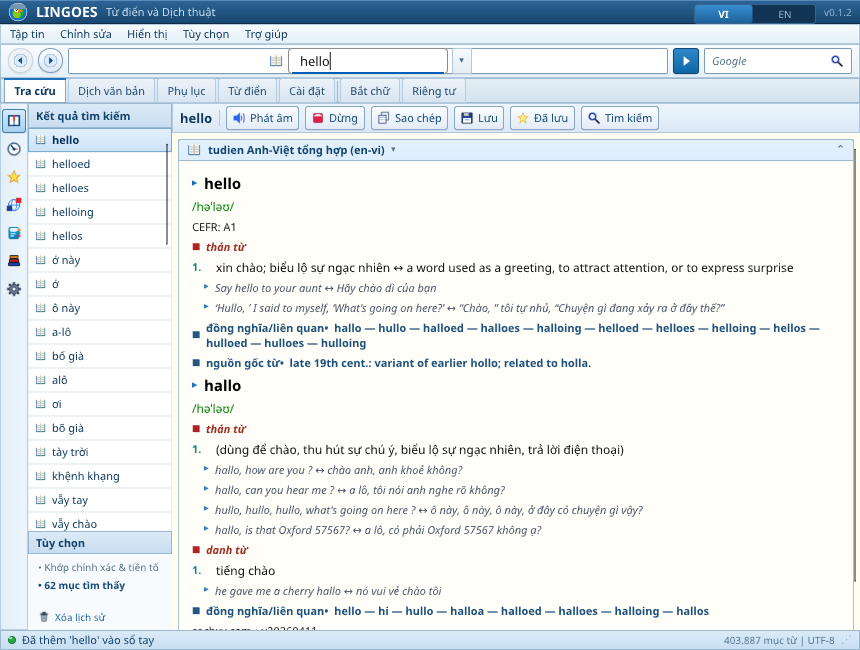
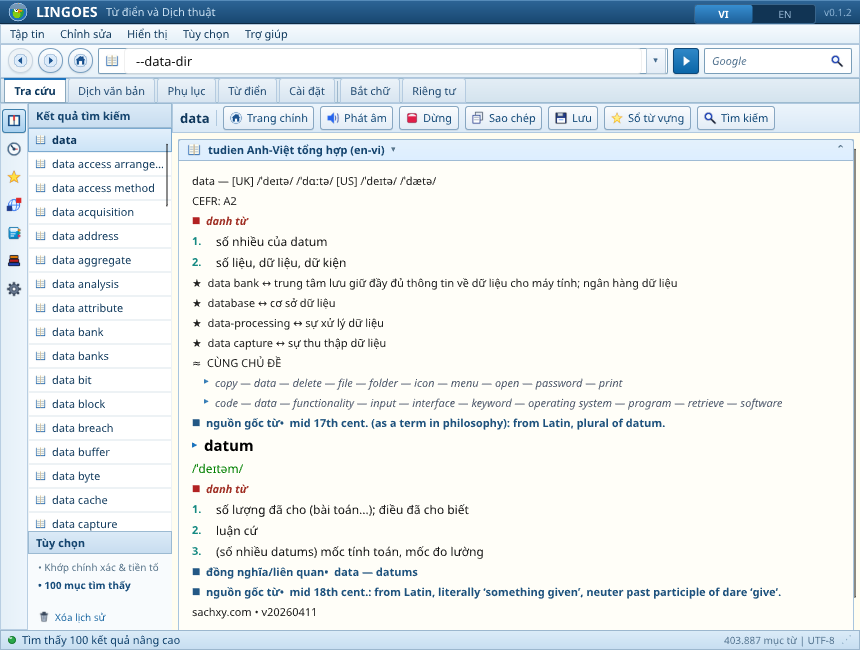
feat(ui): add Home navigation button, full-width search input, and update UI gallery

diff --git a/apps/lingoes-desktop/src/lib.rs b/apps/lingoes-desktop/src/lib.rs
@@ -221,6 +221,18 @@ impl DesktopApp {
         self.search_with_mode(query, true);
     }
 
+    pub fn go_home(&mut self) {
+        self.results.clear();
+        self.selected_index = None;
+        self.last_live_query.clear();
+        self.status = if self.language() == "en" {
+            "Enter a word or phrase to look up".into()
+        } else {
+            "Nhập từ khóa để tra cứu".into()
+        };
+        self.has_error = false;
+    }
+
     fn search_with_mode(&mut self, query: &str, advanced: bool) {
         let Ok(lookup_query) = LookupQuery::new(query) else {
             self.results.clear();
@@ -1061,6 +1073,22 @@ pub fn launch_gui_with_options(
                 }
             }
             if let Some(window) = window_weak.upgrade() {
+                update_window(&window, &app);
+            }
+        });
+    }
+    {
+        let application = Arc::clone(&application);
+        let window_weak = window.as_weak();
+        window.on_go_home(move || {
+            let mut app = application.lock().unwrap();
+            app.go_home();
+            if let Some(window) = window_weak.upgrade() {
+                window.set_active_tab(0);
+                window.set_query("".into());
+                window.set_selected_headword("".into());
+                window.set_selected_definition("".into());
+                window.set_selected_index(-1);
                 update_window(&window, &app);
             }
         });
@@ -2325,6 +2353,29 @@ mod tests {
         assert!(application.live_search(""));
         assert!(application.results().is_empty());
         assert!(!application.live_search("   "));
+
+        let _ = std::fs::remove_file(database_path);
+        let _ = std::fs::remove_file(source_path);
+    }
+
+    #[test]
+    fn go_home_resets_results_selection_and_status() {
+        let database_path = temporary_path("home-test", "db");
+        let source_path = temporary_path("home-test", "tsv");
+        std::fs::write(&source_path, "rust\tA systems language\n").unwrap();
+        let mut application = DesktopApp::open(&database_path).unwrap();
+        application.import_path(&source_path).unwrap();
+
+        application.search("rust");
+        assert_eq!(application.selected_headword(), "rust");
+        assert_eq!(application.results().len(), 1);
+
+        application.go_home();
+        assert_eq!(application.selected_headword(), "");
+        assert_eq!(application.results().len(), 0);
+        assert_eq!(application.selected_index(), None);
+        assert_eq!(application.status(), "Nhập từ khóa để tra cứu");
+        assert!(!application.has_error());
 
         let _ = std::fs::remove_file(database_path);
         let _ = std::fs::remove_file(source_path);
